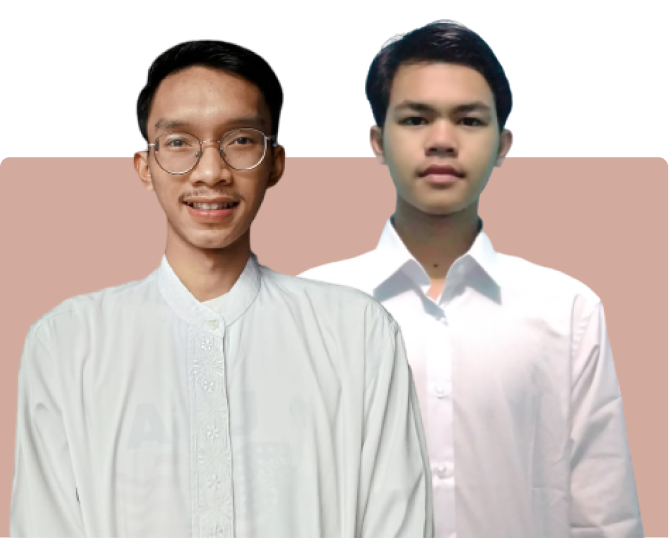
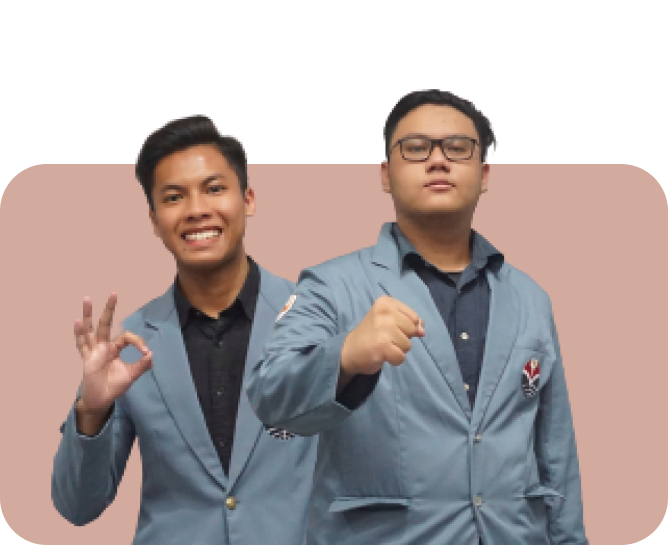
update paslon profile and minor changes

diff --git a/resources/views/voting/master.blade.php b/resources/views/voting/master.blade.php
@@ -50,8 +50,8 @@
                 </path>
             </svg>
             <div class="biodata d-flex flex-column justify-content-center ml-3">
-                <h1>{{Auth::user()->nama}}</h1>
-                <p>{{Auth::user()->nim}} - <span class="text-uppercase">{{Auth::user()->jurusan}}</span></p>
+                <h1>{{ Auth::user()->nama }}</h1>
+                <p>{{ Auth::user()->nim }} - <span class="text-uppercase">{{ Auth::user()->jurusan }}</span></p>
             </div>
         </div>
         <div class="row">
@@ -72,19 +72,19 @@
                             </a>
                         </li>
                         @if (Auth::user()->pilihan == 0)
-                        <li class="{{ $active == 'voting' ? 'menu-active' : '' }}">
-                            <a href="{{ route('voting') }}">
-                                <div class="item px-5 py-3">
-                                    <svg width="30" height="44" viewBox="0 0 37 41" fill="none"
-                                        xmlns="http://www.w3.org/2000/svg">
-                                        <path
-                                            d="M30.8333 22.5512H29.4356L25.3244 26.651H29.2506L32.8889 30.7507H4.11111L7.77 26.651H11.9839L7.87278 22.5512H6.16667L0 28.7008V36.9003C0 39.1551 1.82944 41 4.09056 41H32.8889C33.9792 41 35.0249 40.5681 35.7959 39.7992C36.5669 39.0304 37 37.9876 37 36.9003V28.7008L30.8333 22.5512ZM32.8889 36.9003H4.11111V34.8504H32.8889V36.9003ZM17.1433 26.692C17.945 27.4914 19.24 27.4914 20.0417 26.692L33.115 13.6548C33.3056 13.4652 33.4567 13.2399 33.5599 12.992C33.663 12.744 33.7161 12.4781 33.7161 12.2097C33.7161 11.9412 33.663 11.6754 33.5599 11.4274C33.4567 11.1794 33.3056 10.9542 33.115 10.7645L22.94 0.61771C22.7545 0.424206 22.532 0.269824 22.2856 0.163722C22.0392 0.0576208 21.7739 0.00196286 21.5055 5.09877e-05C21.2371 -0.00186089 20.971 0.0500123 20.7231 0.152592C20.4752 0.255173 20.2504 0.406369 20.0622 0.597211L6.96833 13.6548C6.77778 13.8445 6.62659 14.0697 6.52344 14.3177C6.42029 14.5657 6.3672 14.8315 6.3672 15.1C6.3672 15.3685 6.42029 15.6343 6.52344 15.8823C6.62659 16.1302 6.77778 16.3555 6.96833 16.5451L17.1433 26.692ZM21.5011 4.94292L28.7778 12.1994L18.6028 22.3463L11.3261 15.0897L21.5011 4.94292Z"
-                                            fill="black" />
-                                    </svg>
-                                    <span>Pemilihan</span>
-                                </div>
-                            </a>
-                        </li>
+                            <li class="{{ $active == 'voting' ? 'menu-active' : '' }}">
+                                <a href="{{ route('voting') }}">
+                                    <div class="item px-5 py-3">
+                                        <svg width="30" height="44" viewBox="0 0 37 41" fill="none"
+                                            xmlns="http://www.w3.org/2000/svg">
+                                            <path
+                                                d="M30.8333 22.5512H29.4356L25.3244 26.651H29.2506L32.8889 30.7507H4.11111L7.77 26.651H11.9839L7.87278 22.5512H6.16667L0 28.7008V36.9003C0 39.1551 1.82944 41 4.09056 41H32.8889C33.9792 41 35.0249 40.5681 35.7959 39.7992C36.5669 39.0304 37 37.9876 37 36.9003V28.7008L30.8333 22.5512ZM32.8889 36.9003H4.11111V34.8504H32.8889V36.9003ZM17.1433 26.692C17.945 27.4914 19.24 27.4914 20.0417 26.692L33.115 13.6548C33.3056 13.4652 33.4567 13.2399 33.5599 12.992C33.663 12.744 33.7161 12.4781 33.7161 12.2097C33.7161 11.9412 33.663 11.6754 33.5599 11.4274C33.4567 11.1794 33.3056 10.9542 33.115 10.7645L22.94 0.61771C22.7545 0.424206 22.532 0.269824 22.2856 0.163722C22.0392 0.0576208 21.7739 0.00196286 21.5055 5.09877e-05C21.2371 -0.00186089 20.971 0.0500123 20.7231 0.152592C20.4752 0.255173 20.2504 0.406369 20.0622 0.597211L6.96833 13.6548C6.77778 13.8445 6.62659 14.0697 6.52344 14.3177C6.42029 14.5657 6.3672 14.8315 6.3672 15.1C6.3672 15.3685 6.42029 15.6343 6.52344 15.8823C6.62659 16.1302 6.77778 16.3555 6.96833 16.5451L17.1433 26.692ZM21.5011 4.94292L28.7778 12.1994L18.6028 22.3463L11.3261 15.0897L21.5011 4.94292Z"
+                                                fill="black" />
+                                        </svg>
+                                        <span>Pemilihan</span>
+                                    </div>
+                                </a>
+                            </li>
                         @endif
                     </ul>
                 </div>
@@ -109,6 +109,7 @@
     <script src="{{ asset('assets/vendor/wow/wow.min.js') }}"></script>
     <script src="https://unpkg.com/aos@2.3.1/dist/aos.js"></script>
     <script src="{{ asset('assets/js/script.js') }}"></script>
+    @stack('js')
 </body>
 
 </html>

diff --git a/resources/views/voting/voting.blade.php b/resources/views/voting/voting.blade.php
@@ -1,4 +1,15 @@
 @extends("voting.master", [$title = "- Pemilihan", $active = 'voting'])
+@push('js')
+    <script>
+        $("body").on("click", ".btn-vote", function(e) {
+            if (confirm("Apakah anda yakin akan melakukan pemilihan ini?")) {
+                $(this).parent().submit();
+            } else {
+                alert("Tidak jadi memilih")
+            }
+        })
+    </script>
+@endpush
 @section('main-content')
     <div class="row">
         <div class="col-md-6 paslon-wrap" data-aos="fade-up" data-aos-duration="500" data-aos-easing="ease-in-sine"
@@ -9,10 +20,10 @@
                     <img src="{{ asset('img/paslon/paslon1.png') }}" alt="foto paslon" class="img-fluid">
                 </div>
                 <div class="paslon-name">
-                    <p>M Figo Alfaiq & Dian Saepul A</p>
+                    <p>Gumilang Pawitan & Rafif Dzakwan R</p>
                 </div>
-                <form action="{{ route('vote', [Auth::user()->id , 1]) }}" method="POST">
-                    <button class="btn btn-vote" type="submit">
+                <form action="{{ route('vote', [Auth::user()->id, 1]) }}" method="POST">
+                    <button class="btn btn-vote" type="button">
                         @csrf
                         @method('put')
                         <div class="paslon-vote text-center py-2">
@@ -33,7 +44,7 @@
                     <p>- & -</p>
                 </div>
                 <form action="{{ route('vote', [Auth::user()->id, 2]) }}" method="POST">
-                    <button class="btn btn-vote" type="submit">
+                    <button class="btn btn-vote" type="button">
                         @csrf
                         @method('put')
                         <div class="paslon-vote text-center py-2">
@@ -54,31 +65,25 @@
         <div class="info-suara bg-white shadow mt-2 my-rounded-2 py-3 mx-3">
             <div class="text-center">
                 <h5>Visi</h5>
-                <p>Mewujudkan BEM UPI Kampus Cibiru Juara Lahir Batin dengan Inovasi Teknologi, aktif berkolaborasi, dan
-                    berkarakter Masagi.</p>
+                <p>Menjadi BEM UPI Cibiru yang mengedepankan nilai kebersamaan dan keberagaman dalam persatuan.</p>
             </div>
         </div>
         <div class="info-suara bg-white shadow mt-2 my-rounded-2 py-3 mx-3">
             <div class="text-center">
                 <h5>MISI</h5>
                 <ol class="ml-3 px-2 text-left">
-                    <li>Membentuk karakter kader mahasiswa yang aktif dan memiliki kepekaan sosial serta tanggap terhadap
-                        isu lingkungan</li>
-                    <li>Meningkatkan produktivitas dan daya saing mahasiswa yang menyeluruh melalui pemanfaatan teknologi
-                        digital dan kolaborasi dengan pusat-pusat inovasi serta kelembagaan.</li>
-                    <li>Mewujudkan tata kelola organisasi dan pelayanan publik yang responsif dan inovatif serta
-                        kepemimpinan yang kolaboratif antara UKM Ormawa, Mahasiswa dan Lembaga.</li>
-                    <li>Mengembangkan kepedulian sosial mahasiswa yang kreatif dan inspiratif sebagai bagian dari tri dharma
-                        perguruan tinggi.</li>
-                    <li>Memfasilitasi dan memotivasi mahasiswa untuk menghasilkan prestasi yang cemerlang di era disrupsi.
-                    </li>
+                    <li>Menjalin relasi dan kolaborasi yang bersahaja, baik di internal maupun eksternal demi terciptanya
+                        lingkungan yang harmonis.</li>
+                    <li>Memupuk potensi mahasiswa demi optimalisasi perkembangan diri.</li>
+                    <li>Membangun pergerakan dan pengabdian yang mengutamakan kemaslahatan masyarakat.</li>
+                    <li>Mengukuhkan integritas dan solidaritas internal organisasi.</li>
                 </ol>
             </div>
         </div>
         <div class="info-suara bg-white shadow mt-2 my-rounded-2 py-3 mx-3">
             <div class="text-center">
                 <h5>Program Unggulan</h5>
-                <ol class="ml-3 px-2 text-left">
+                {{-- <ol class="ml-3 px-2 text-left">
                     <li>Desa Mekar (Membina Karakter)</li>
                     <li>UPI Cibiru Masagi</li>
                     <li>BEM <i>Quick Response</i></li>
@@ -86,7 +91,7 @@
                     <li>Piala BEM CUP</li>
                     <li>BEM Menyapa</li>
                     <li>Bukti Lisan (Buletin Fakta Isu dan Kajian)</li>
-                </ol>
+                </ol> --}}
             </div>
         </div>
     </div>
